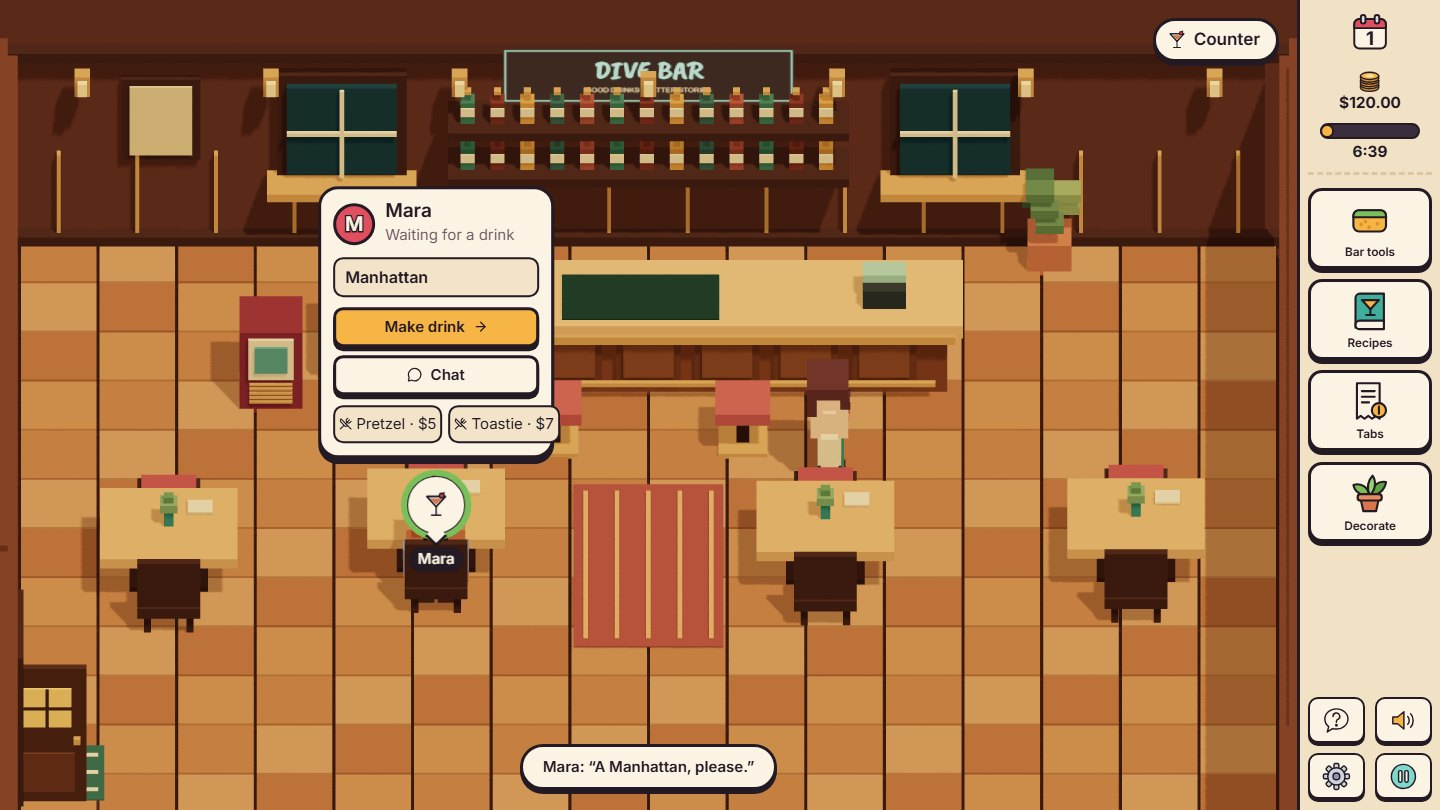
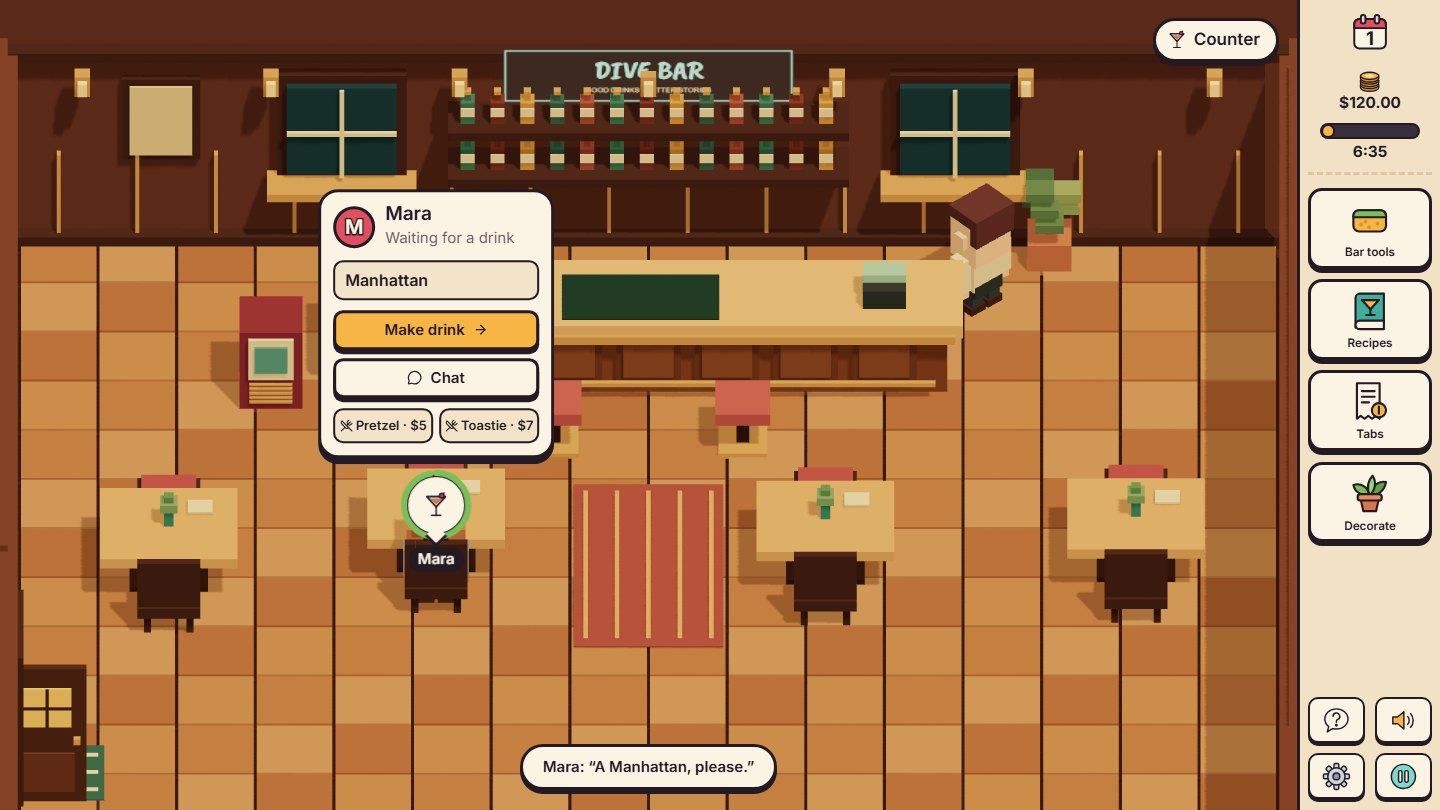
fix(ui): snack buttons stay inside the guest card; refresh README screenshots

Changed region(s): [[0.2188, 0.216, 0.4062, 0.5556], [0.625, 0.216, 0.7188, 0.4012], [0.5312, 0.463, 0.5938, 0.5864]]

diff --git a/src/index.css b/src/index.css
@@ -1041,22 +1041,28 @@ a {
   font-size: 15px;
 }
 .guest-card-snacks {
-  display: flex;
+  /* Two equal buttons that always stay inside the card. */
+  display: grid;
+  grid-template-columns: 1fr 1fr;
   gap: 6px;
 }
 .guest-card-snacks button {
-  flex: 1;
+  min-width: 0;
   display: inline-flex;
   align-items: center;
   justify-content: center;
-  gap: 4px;
-  padding: 6px 4px;
+  gap: 3px;
+  padding: 6px 2px;
   border: var(--line-thin);
   border-radius: var(--r-sm);
   background: var(--cream);
-  font-size: 15px;
-  font-weight: 400;
+  font-size: 13px;
+  font-weight: 600;
   white-space: nowrap;
+  overflow: hidden;
+}
+.guest-card-snacks button:only-child {
+  grid-column: 1 / -1;
 }
 .guest-card-snacks button:hover:not(:disabled) {
   background: var(--accent-soft);
